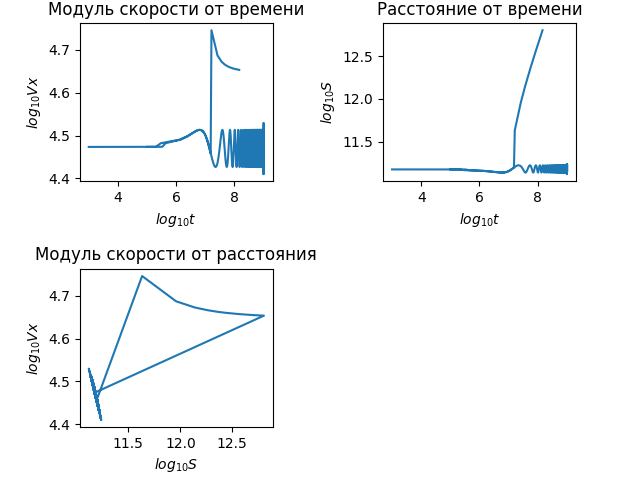
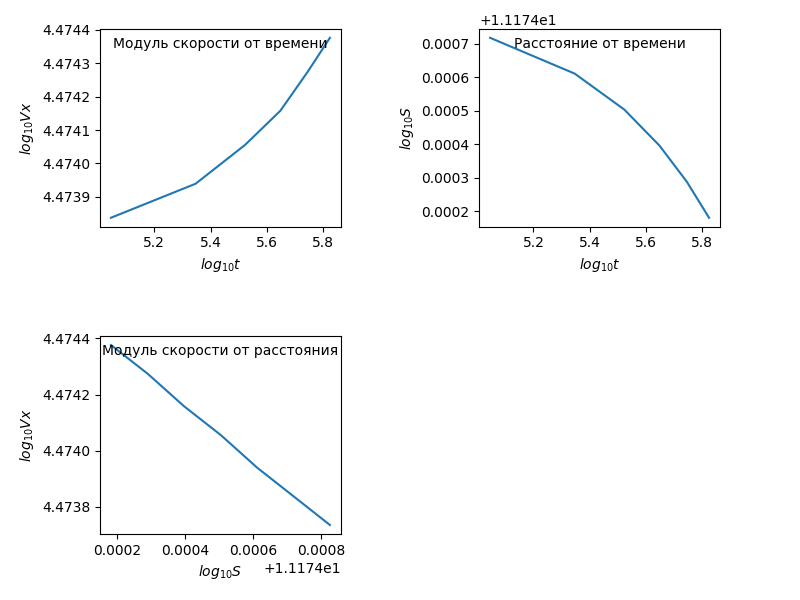
aboba

diff --git a/solar_input.py b/solar_input.py
@@ -1,6 +1,7 @@
 from solar_objects import Star, Planet
 import matplotlib.pyplot as plt
 import numpy as np
+import pylab
 
 
 def read_space_objects_data_from_file(input_filename):
@@ -113,6 +114,7 @@ def data(space_objects, dt):
 
 
 def graph():
+    plt.figure(figsize=(8, 6), dpi=100)
     input_data = []
     speed = []
     distance = []
@@ -124,21 +126,31 @@ def graph():
         speed.append(np.log(int(float(input_data[i][0]))) / np.log(10))
         distance.append(np.log(int(float(input_data[i][1]))) / np.log(10))
         time.append(np.log(int(float(input_data[i][2]))) / np.log(10))
+
     plt.subplot(221)
     plt.plot(time, speed)
+    plt.rcParams['axes.titley'] = 1.0  # y is in axes-relative coordinates.
+    plt.rcParams['axes.titlepad'] = -14
+
     plt.xlabel(r'$log_{10} t$')
     plt.ylabel(r'$log_{10} Vx$')
-    plt.title('Модуль скорости от времени')
+    plt.title('Модуль скорости от времени', fontsize = 10)
     plt.subplot(222)
     plt.plot(time, distance)
+    plt.rcParams['axes.titley'] = 1.0  # y is in axes-relative coordinates.
+    plt.rcParams['axes.titlepad'] = -14
+
     plt.xlabel(r'$log_{10} t$')
     plt.ylabel(r'$log_{10} S$')
-    plt.title('Расстояние от времени')
+    plt.title('Расстояние от времени', fontsize = 10)
     plt.subplot(223)
     plt.plot(distance, speed)
+    plt.rcParams['axes.titley'] = 1.0  # y is in axes-relative coordinates.
+    plt.rcParams['axes.titlepad'] = -14
+
     plt.xlabel(r'$log_{10} S$')
     plt.ylabel(r'$log_{10} Vx$')
-    plt.title('Модуль скорости от расстояния')
+    plt.title('Модуль скорости от расстояния', fontsize = 10)
     plt.subplots_adjust(hspace=0.552, wspace=0.574, top=0.952)
     plt.savefig('graph.png')
     plt.show()

diff --git a/solar_main.py b/solar_main.py
@@ -111,11 +111,12 @@ def main():
     global time_speed
     global space
     global start_button
-
+    global root
     print('Modelling started!')
     physical_time = 0
     root = tkinter.Tk()
     # космическое пространство отображается на холсте типа Canvas
+
     space = tkinter.Canvas(root, width=window_width, height=window_height, bg="black")
     space.pack(side=tkinter.TOP)
     # нижняя панель с кнопками
@@ -143,7 +144,11 @@ def main():
     time_label = tkinter.Label(frame, textvariable=displayed_time, width=30)
     time_label.pack(side=tkinter.RIGHT)
 
+
+
+    print(time_step)
     root.mainloop()
+    print(time_step)
     graph()
     print('Modelling finished!')
 
